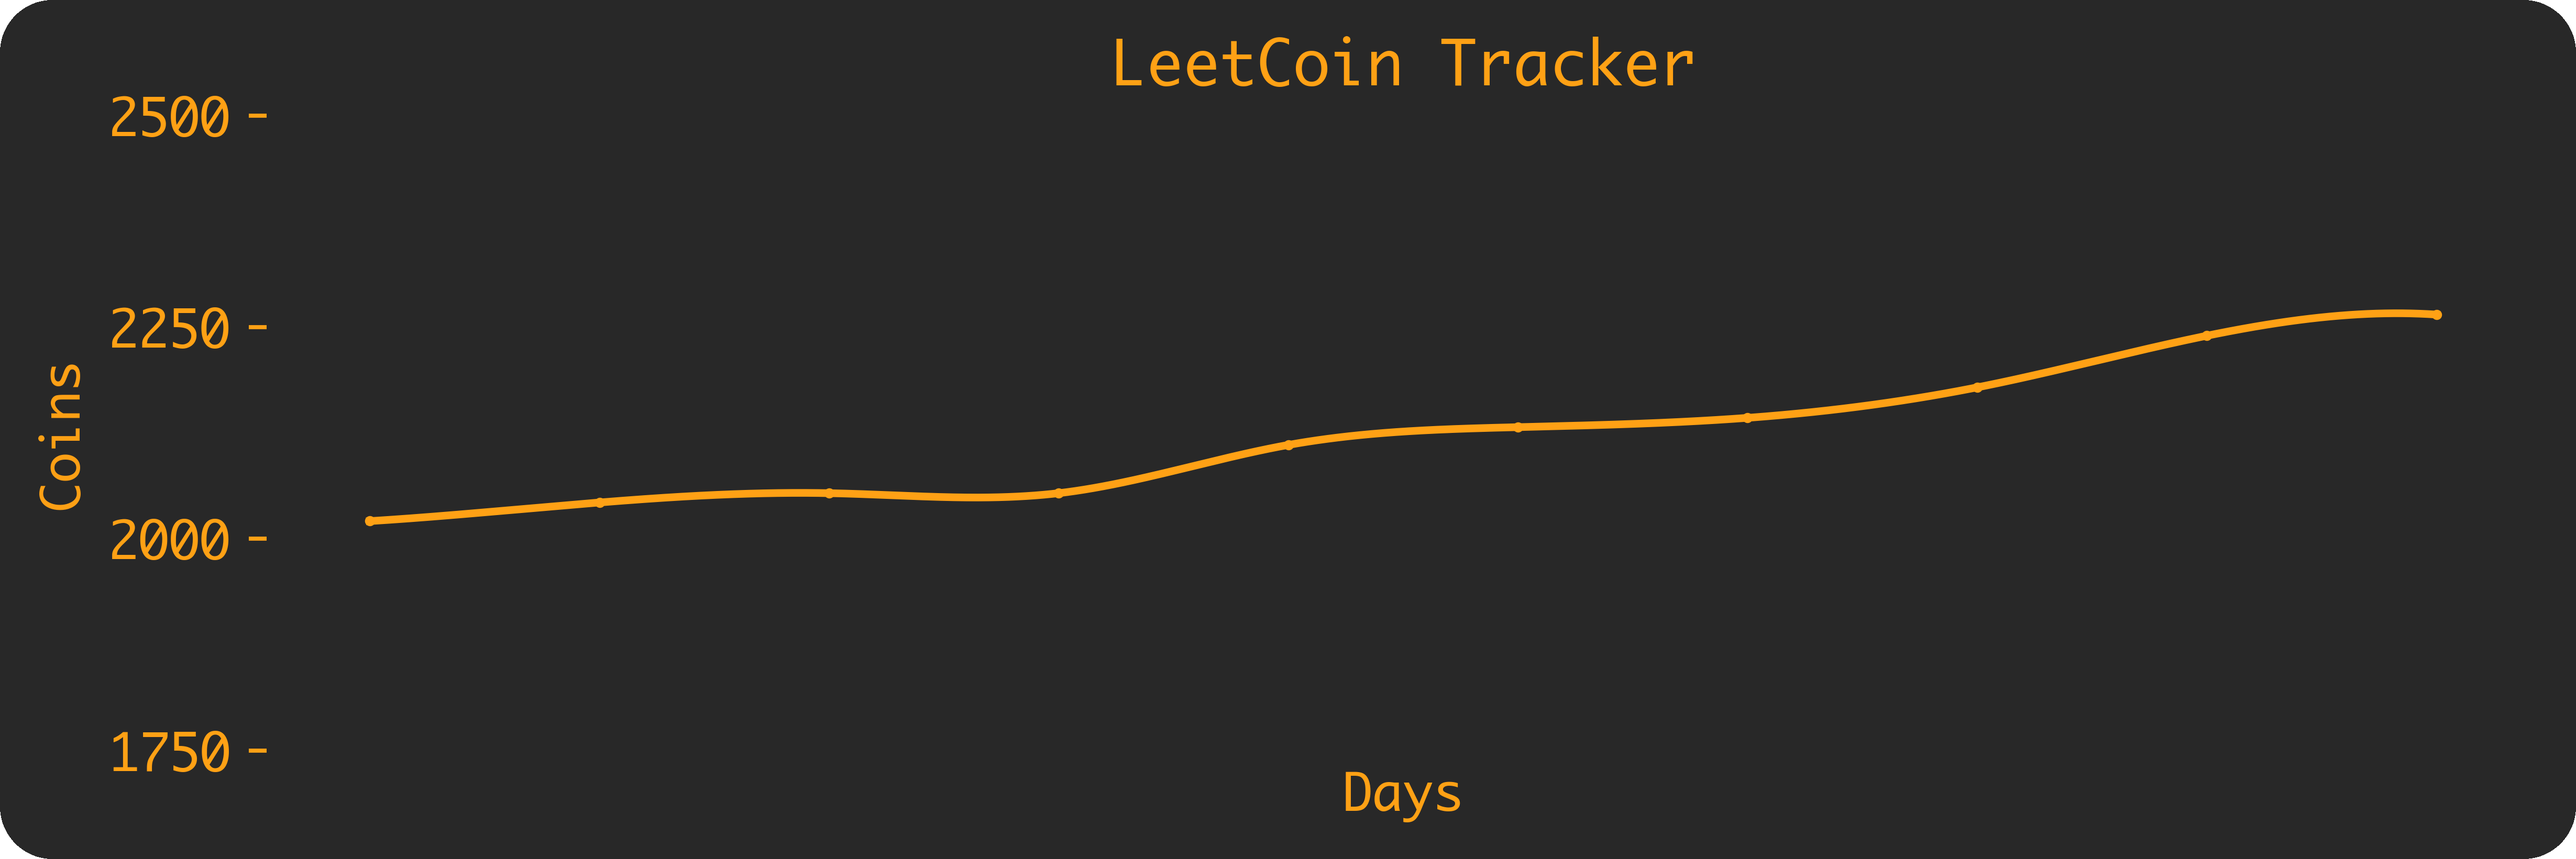
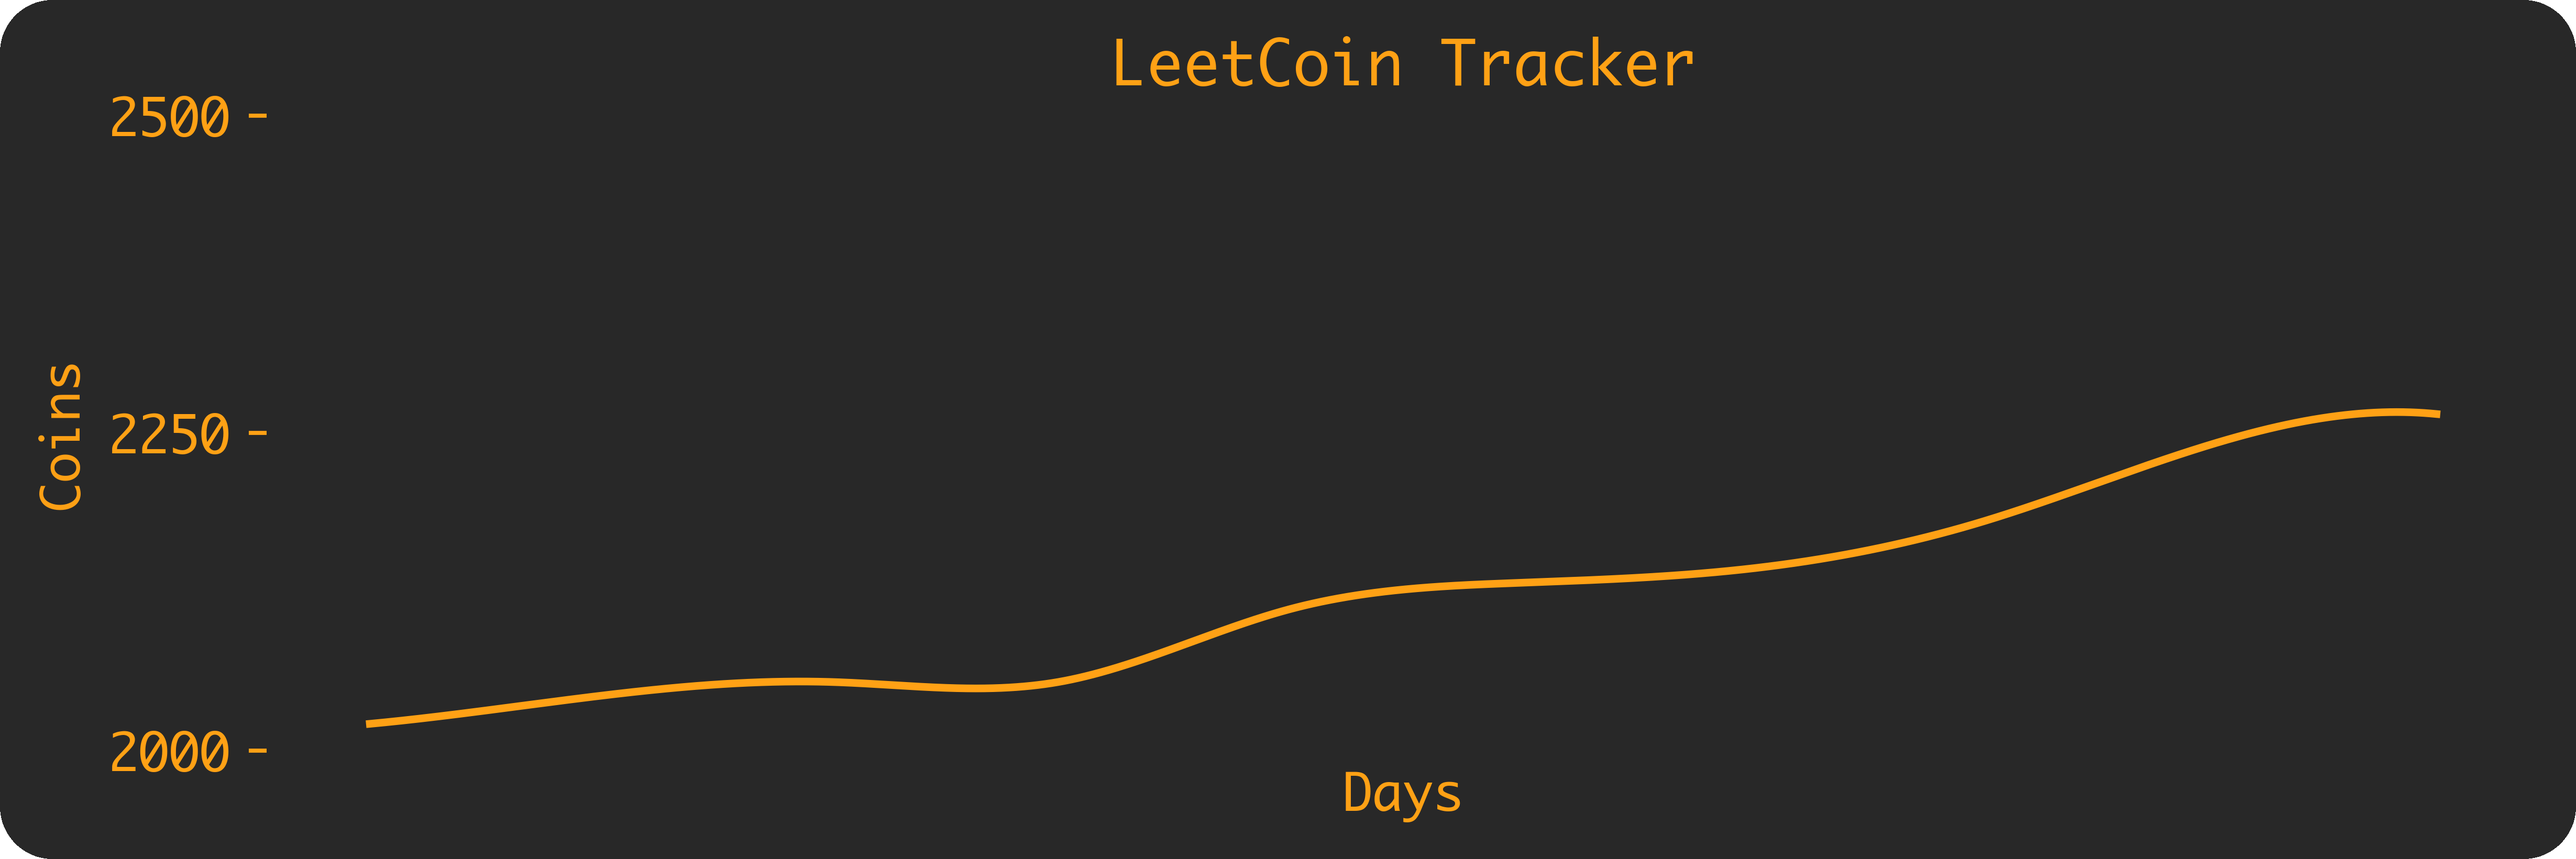
graph scaling

diff --git a/generate_graph.py b/generate_graph.py
@@ -20,7 +20,7 @@ def generate_graph(filename="data.csv"):
     plt.rcParams["axes.labelcolor"] = LEETCODE_YELLOW
     plt.rcParams["xtick.color"] = LEETCODE_YELLOW
     plt.rcParams["ytick.color"] = LEETCODE_YELLOW
-    marker_size = 2 if len(df) < 10 else 1
+    marker_size = 2 if len(df) < 10 else 0
     plt.plot(x0, y0, "o", color=LEETCODE_YELLOW, markersize=marker_size)
     cubic_interpolation_model = interp1d(x0, y0, kind="cubic")
     x = np.linspace(min(x0), max(x0), 5000)
@@ -38,10 +38,12 @@ def generate_graph(filename="data.csv"):
 
     fig = plt.gcf()
     fig.set_size_inches(8, 2.25)
-    plt.xlabel("Days", fontname = "Monaco")
-    plt.ylabel("Coins", fontname = "Monaco")
+    plt.xlabel("Days", fontname="Monaco")
+    plt.ylabel("Coins", fontname="Monaco")
     if max(y0) < 4000:
-        plt.yticks(np.arange(min(y0) // 250 * 250 - 250, max(y0) + 250, 250), fontname = "Monaco")
+        plt.yticks(
+            np.arange(min(y0) // 250 * 250, max(y0) + 250, 250), fontname="Monaco"
+        )
     else:
         plt.yticks(np.arange(min(y0) // 1000 * 1000 - 1000, max(y0) + 1000, 1000))
 
